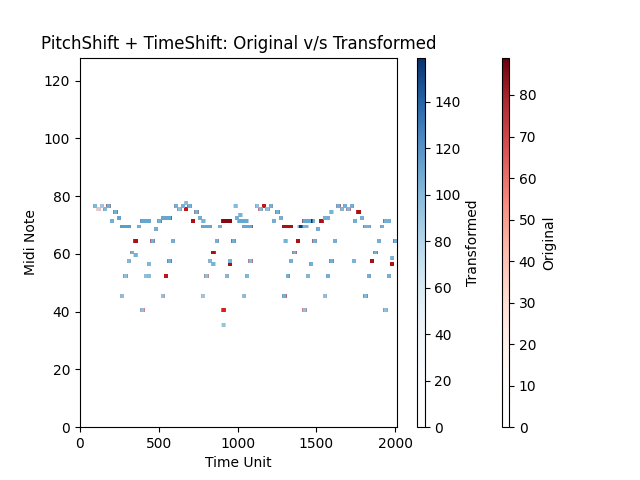
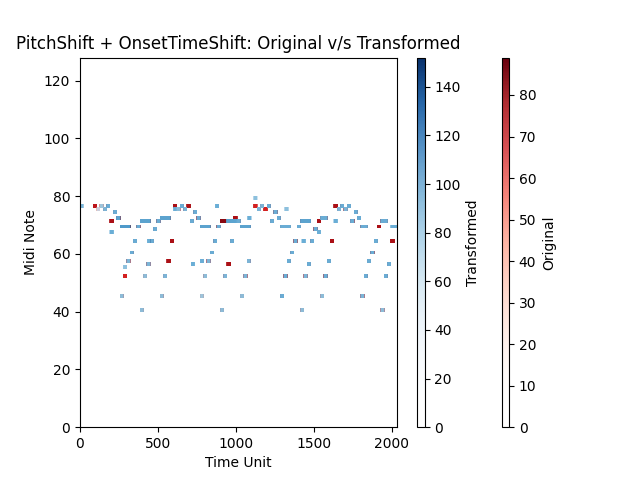
- fixed a typo in example plot

diff --git a/core/transforms_viz.py b/core/transforms_viz.py
@@ -86,4 +86,4 @@ if __name__ == '__main__':
     print("Total time taken for all transforms = {}s".format(total_durn))
 
     save_midi(midi_data, '../short_transformed.mid')
-    viz_transform(midi_data, transformed_midi_data, 'PitchShift + TimeShift')
+    viz_transform(midi_data, transformed_midi_data, 'PitchShift + OnsetTimeShift')
